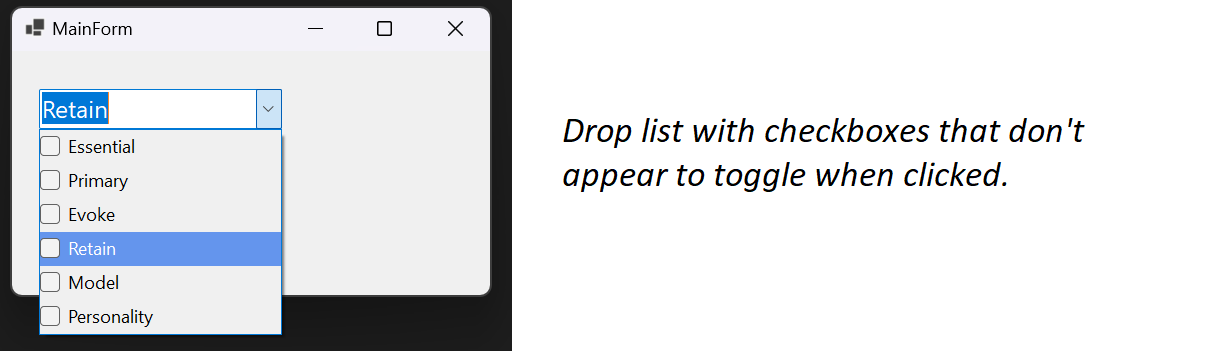
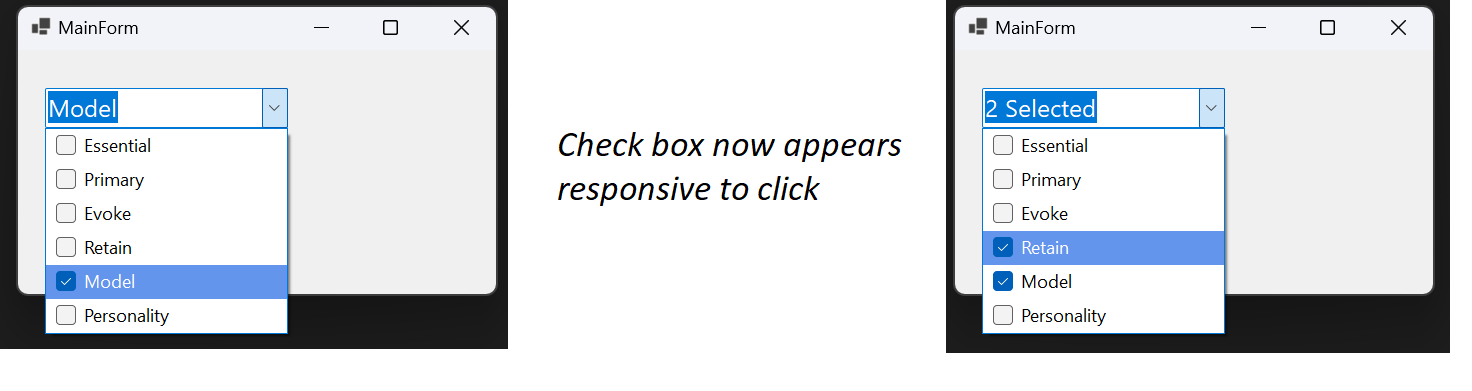
improved drawing margins

Changed region(s): [[0.0, 0.0, 1.0, 0.9888], [0.8868, 0.0618, 0.9174, 0.0927], [0.2446, 0.0618, 0.2752, 0.0927]]

diff --git a/checked-combo-box/MainForm.cs b/checked-combo-box/MainForm.cs
@@ -26,12 +26,12 @@ namespace checked_combo_box
             DisplayMember = "Text";
 
             // Add items for testing purposes
-            CheckBoxItems.Add(new CheckBox { Text = "Essential" });
-            CheckBoxItems.Add(new CheckBox { Text = "Primary"});
-            CheckBoxItems.Add(new CheckBox { Text = "Evoke" });
-            CheckBoxItems.Add(new CheckBox { Text = "Retain" });
-            CheckBoxItems.Add(new CheckBox { Text = "Model" });
-            CheckBoxItems.Add(new CheckBox { Text = "Personality" });
+            CheckBoxItems.Add(new CheckBox { Text = "Essential", BackColor = Color.White });
+            CheckBoxItems.Add(new CheckBox { Text = "Primary", BackColor = Color.White });
+            CheckBoxItems.Add(new CheckBox { Text = "Evoke", BackColor = Color.White });
+            CheckBoxItems.Add(new CheckBox { Text = "Retain", BackColor = Color.White });
+            CheckBoxItems.Add(new CheckBox { Text = "Model", BackColor = Color.White });
+            CheckBoxItems.Add(new CheckBox { Text = "Personality", BackColor = Color.White });
         }
         protected override void OnCreateControl()
         {
@@ -89,17 +89,19 @@ namespace checked_combo_box
             base.OnDrawItem(e);
             CheckBox checkbox;
             checkbox = CheckBoxItems[e.Index];
-            checkbox.Size = e.Bounds.Size;
+            checkbox.Size = new Size(e.Bounds.Width - 10, e.Bounds.Height);
 
             POINT p = new POINT(e.Bounds.Left, e.Bounds.Top);
             ClientToScreen(_hwndList, ref p);
             checkbox.Tag = new Rectangle(
                 new Point(p.X, p.Y),
                 e.Bounds.Size);
-            using (var bitmap = new Bitmap(e.Bounds.Width, e.Bounds.Height))
+            
+            e.Graphics.FillRectangle(e.State.Equals(DrawItemState.Selected) ? Brushes.CornflowerBlue : Brushes.White, e.Bounds);
+            using (var bitmap = new Bitmap(checkbox.Size.Width, checkbox.Size.Height))
             {
                 checkbox.DrawToBitmap(bitmap, new Rectangle(Point.Empty, e.Bounds.Size));
-                e.Graphics.DrawImage(bitmap, e.Bounds);
+                e.Graphics.DrawImage(bitmap, new Rectangle(new Point(e.Bounds.Left + 10, e.Bounds.Top), checkbox.Size));
             }
         }
         IntPtr _hwndList;
@@ -107,7 +109,6 @@ namespace checked_combo_box
         const int WM_MOUSEMOVE = 0x0200;
         const int WM_LBUTTONDOWN = 0x0201;
         const int CB_SETCURSEL = 0x014E;
-        const int WM_PAINT = 0x000f;
 
         int _internalSelectedIndex = -1;
         public int SelectedIndexInDropDown
@@ -131,7 +132,7 @@ namespace checked_combo_box
                                 checkbox = CheckBoxItems[i];
                                 if (checkbox.ForeColor == Color.White)
                                 {
-                                    CheckBoxItems[i].BackColor = Color.Transparent;
+                                    CheckBoxItems[i].BackColor = Color.White;
                                     CheckBoxItems[i].ForeColor = SystemColors.ControlText;
                                     SendMessage(Handle, CB_SETCURSEL, i, 0);
                                 }
